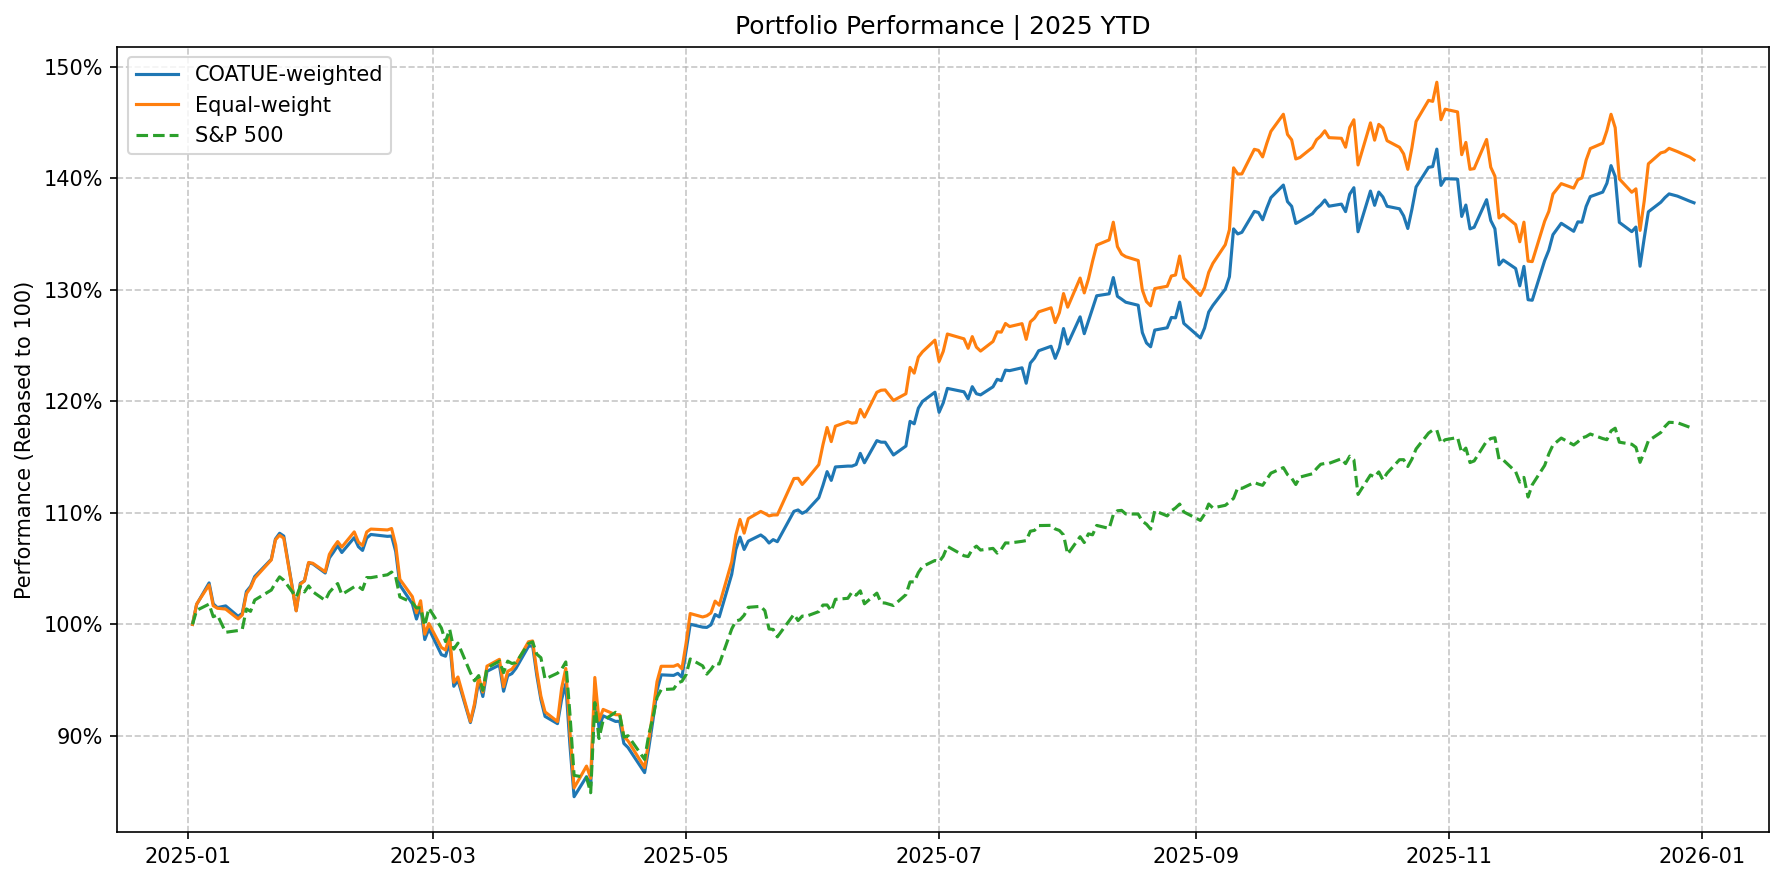
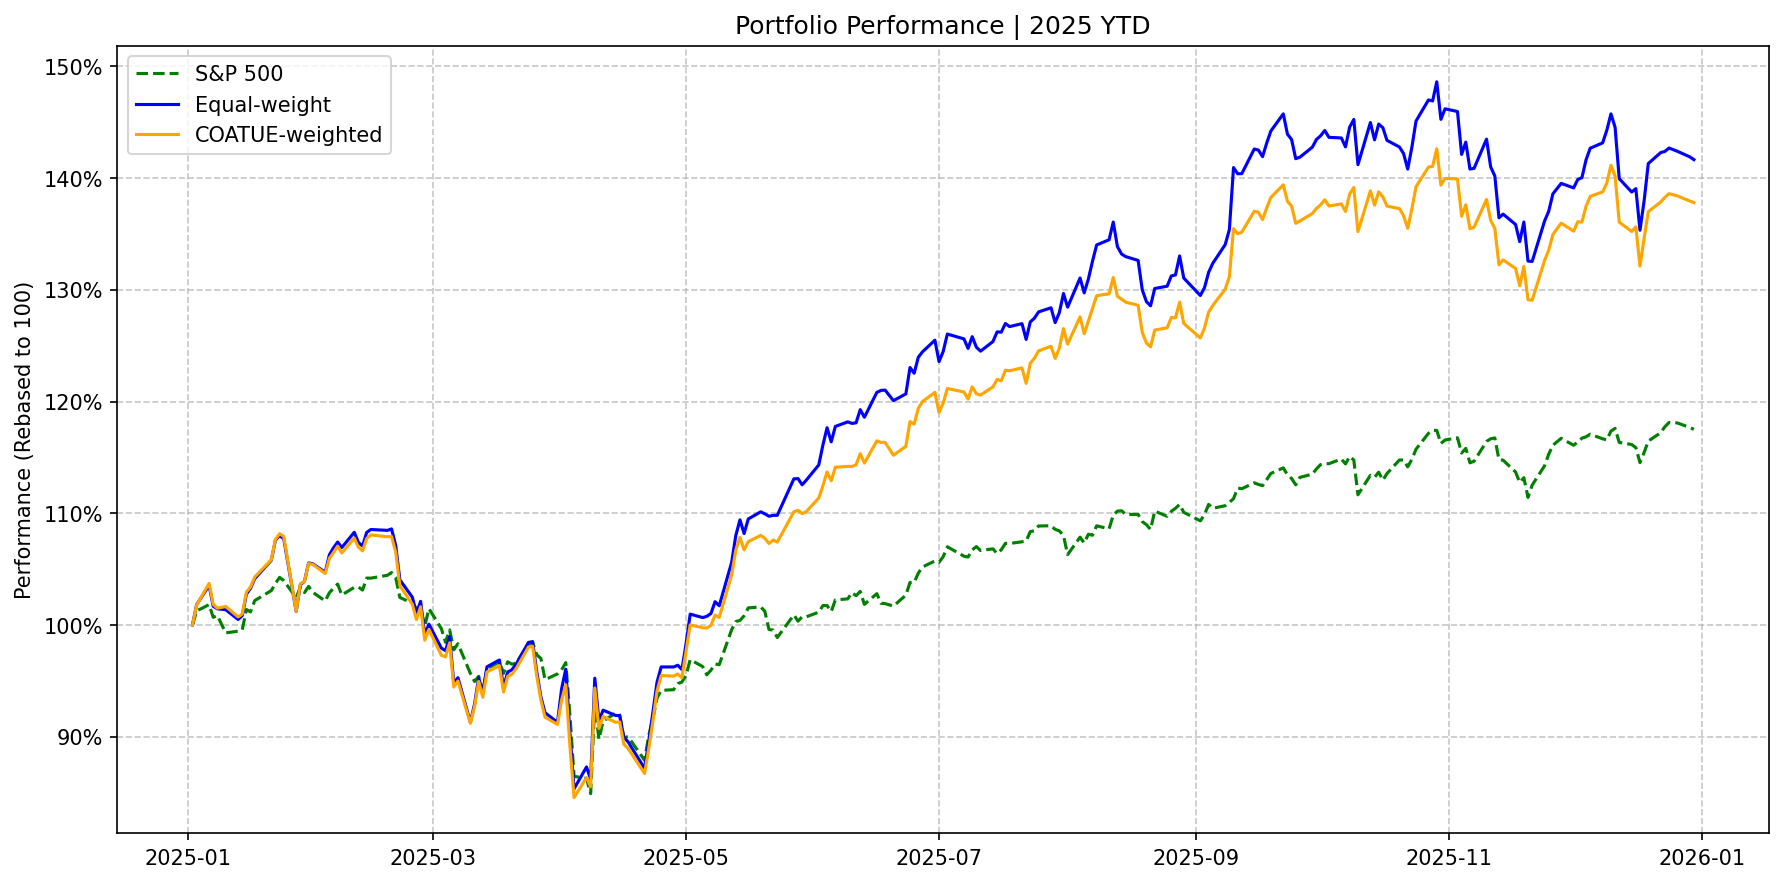
13f overview

diff --git a/stock/13f/base_portfolio.py b/stock/13f/base_portfolio.py
@@ -230,10 +230,10 @@ class BasePortfolio:
         def rebase(series):
             return (series / series.iloc[0]) * 100
             
-        # Plot all series
-        plt.plot(rebase(p_fund), label=f"{self.FUND_NAME}-weighted")
-        plt.plot(rebase(p_eq), label="Equal-weight")
-        plt.plot(rebase(sp500), label="S&P 500", linestyle="--")
+        # Plot all series with specified colors
+        plt.plot(rebase(sp500), label="S&P 500", color='green', linestyle="--")
+        plt.plot(rebase(p_eq), label="Equal-weight", color='blue')
+        plt.plot(rebase(p_fund), label=f"{self.FUND_NAME}-weighted", color='orange')
         
         # Formatting
         plt.title(f"Portfolio Performance | {year_label}")
@@ -257,13 +257,14 @@ class BasePortfolio:
             plt.gcf().savefig(out_path, dpi=150, bbox_inches="tight")
         plt.show()
 
-    def run_analysis(self, start_date, end_date):
+    def run_analysis(self, start_date, end_date, mode=None):
         """
         Run the portfolio analysis with the given date range.
         
         Args:
             start_date (str): Start date in 'YYYY-MM-DD' format
             end_date (str): End date in 'YYYY-MM-DD' format
+            mode (int, optional): If 1, automatically run YTD analysis without prompt
         """
         print(f"{self.FUND_NAME} Portfolio Analysis Tool")
         print("1. Fund / Equal-weight / SP500 Trend")
@@ -271,7 +272,10 @@ class BasePortfolio:
         print("3. Equal-weight Portfolio Candlestick")
         print("4. Run All")
 
-        choice = input("Select an option (1-4): ")
+        if mode == 1:
+            choice = '1'
+        else:
+            choice = input("Select an option (1-4): ")
 
         # Download data
         print("Downloading data...")
@@ -295,18 +299,20 @@ class BasePortfolio:
             self.plot_ytd_candlestick(ohlc, "Equal-weight Portfolio | YTD")
 
     @classmethod
-    def from_command_line(cls, start_date=None, end_date=None):
+    def from_command_line(cls, start_date=None, end_date=None, mode=None):
         """
         Run the analysis from command line with optional date parameters.
         
         Args:
             start_date (str, optional): Start date in 'YYYY-MM-DD' format
             end_date (str, optional): End date in 'YYYY-MM-DD' format
+            mode (int, optional): If 1, automatically run YTD analysis without prompt
         """
+        mode = int(mode) if mode is not None else None
         if start_date is None:
             start_date = input("Enter start date (YYYY-MM-DD): ")
         if end_date is None:
             end_date = datetime.now().strftime("%Y-%m-%d")
             
         portfolio = cls()
-        portfolio.run_analysis(start_date, end_date)
+        portfolio.run_analysis(start_date, end_date, mode=mode)

diff --git a/stock/13f/coatue_portfolio.py b/stock/13f/coatue_portfolio.py
@@ -32,7 +32,7 @@ class CoatuePortfolio(BasePortfolio):
 if __name__ == "__main__":
     # Example usage:
     # python coatue_portfolio.py
-    # Or with custom date range: python coatue_portfolio.py 2025-01-01 2025-12-31
+    # Or with custom date range: python coatue_portfolio.py 2025-01-01 2025-12-31 1
     import sys
     
     # Default date range: 2025-01-01 to 2025-12-31
@@ -42,7 +42,8 @@ if __name__ == "__main__":
     # Get date range from command line or use defaults
     start_date = sys.argv[1] if len(sys.argv) > 1 else DEFAULT_START_DATE
     end_date = sys.argv[2] if len(sys.argv) > 2 else DEFAULT_END_DATE
+    mode = sys.argv[3] if len(sys.argv) > 3 else None
     
     # Run the analysis
     print(f"Running COATUE portfolio analysis from {start_date} to {end_date}")
-    CoatuePortfolio.from_command_line(start_date, end_date)
+    CoatuePortfolio.from_command_line(start_date, end_date, mode)

diff --git a/stock/13f/viking_portfolio.py b/stock/13f/viking_portfolio.py
@@ -45,7 +45,8 @@ if __name__ == "__main__":
     # Get date range from command line or use defaults
     start_date = sys.argv[1] if len(sys.argv) > 1 else DEFAULT_START_DATE
     end_date = sys.argv[2] if len(sys.argv) > 2 else DEFAULT_END_DATE
+    mode = sys.argv[3] if len(sys.argv) > 3 else None
 
     # Run the analysis
     print(f"Running Viking portfolio analysis from {start_date} to {end_date}")
-    VikingPortfolio.from_command_line(start_date, end_date)
+    VikingPortfolio.from_command_line(start_date, end_date, mode)

diff --git a/stock/13f/wcm_portfolio.py b/stock/13f/wcm_portfolio.py
@@ -37,7 +37,8 @@ if __name__ == "__main__":
     # Get date range from command line or use defaults
     start_date = sys.argv[1] if len(sys.argv) > 1 else DEFAULT_START_DATE
     end_date = sys.argv[2] if len(sys.argv) > 2 else DEFAULT_END_DATE
+    mode = sys.argv[3] if len(sys.argv) > 3 else None
     
     # Run the analysis
     print(f"Running WCM portfolio analysis from {start_date} to {end_date}")
-    WCMPortfolio.from_command_line(start_date, end_date)
+    WCMPortfolio.from_command_line(start_date, end_date, mode)

diff --git a/stock/13f/three_lines/overview.md b/stock/13f/three_lines/overview.md
@@ -1,0 +1,20 @@
+# 13F Three Lines Overview
+
+<table>
+  <tr>
+    <td>
+      <h3>WCM</h3>
+      <img src="WCM_2025-01-01_2025-12-31.png" alt="WCM Trend Example" style="max-width: 100%;">
+    </td>
+    <td>
+      <h3>COATUE</h3>
+      <img src="COATUE_2025-01-01_2025-12-31.png" alt="COATUE Trend Example" style="max-width: 100%;">
+    </td>
+  </tr>
+  <tr>
+    <td colspan="2">
+      <h3>Viking</h3>
+      <img src="Viking_2025-01-01_2025-12-31.png" alt="Viking Trend Example" style="max-width: 100%;">
+    </td>
+  </tr>
+</table>
